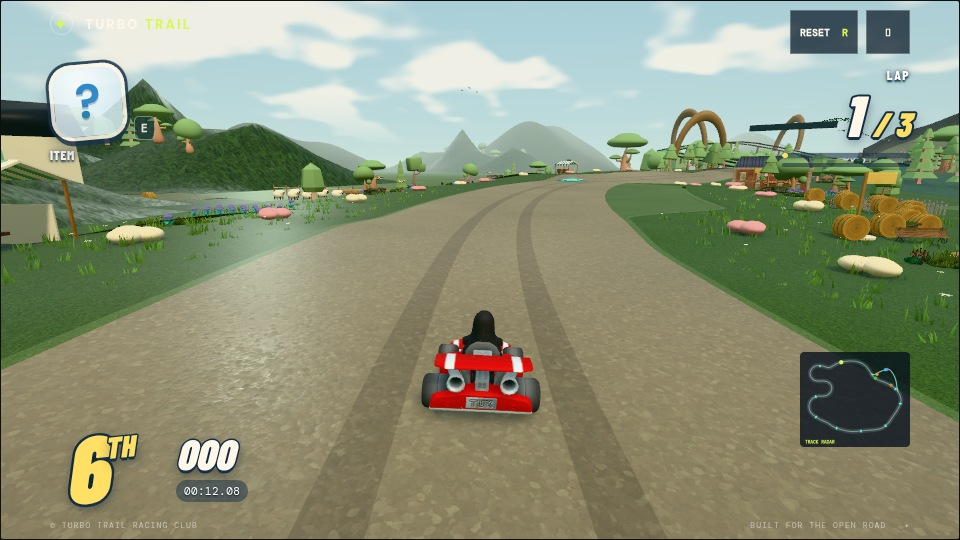
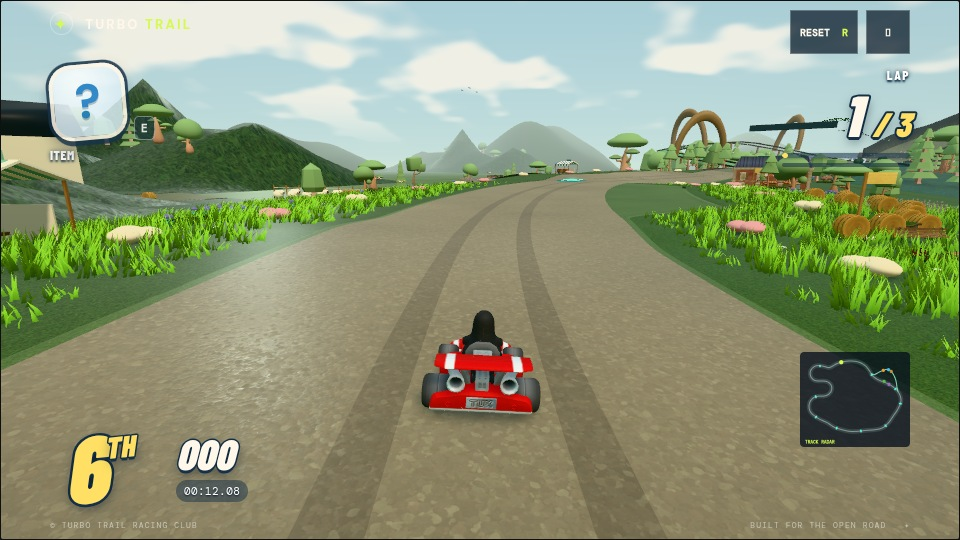
Fill Windmill Wilds with lush wind-swept meadow grass

diff --git a/src/courses/windmill-wilds/meadow-grass.js b/src/courses/windmill-wilds/meadow-grass.js
@@ -13,16 +13,16 @@ export function buildMeadowGrass({ scene, scenery, track }) {
   const positions = [],
     colors = [],
     indices = [];
-  for (let blade = 0; blade < 12; blade++) {
+  for (let blade = 0; blade < 24; blade++) {
     const angle = random() * Math.PI * 2;
-    const height = 0.25 + random() * 0.45;
-    const width = 0.028 + random() * 0.032;
-    const x = Math.cos(angle) * random() * 0.55;
-    const z = Math.sin(angle) * random() * 0.55;
+    const height = 0.55 + random() * 0.65;
+    const width = 0.045 + random() * 0.055;
+    const x = Math.cos(angle) * random() * 0.8;
+    const z = Math.sin(angle) * random() * 0.8;
     const dx = Math.cos(angle) * width;
     const dz = Math.sin(angle) * width;
-    const leanX = Math.sin(angle) * 0.16;
-    const leanZ = Math.cos(angle) * 0.16;
+    const leanX = Math.sin(angle) * 0.32;
+    const leanZ = Math.cos(angle) * 0.32;
     const offset = positions.length / 3;
     positions.push(
       x - dx,
@@ -41,7 +41,7 @@ export function buildMeadowGrass({ scene, scenery, track }) {
       height,
       z + leanZ,
     );
-    colors.push(0.48, 0.58, 0.35, 0.48, 0.58, 0.35, 0.82, 0.9, 0.7, 0.82, 0.9, 0.7, 1, 1, 0.9);
+    colors.push(0.28, 0.43, 0.17, 0.28, 0.43, 0.17, 0.7, 0.88, 0.42, 0.7, 0.88, 0.42, 1, 1, 0.67);
     indices.push(
       offset,
       offset + 1,
@@ -59,23 +59,32 @@ export function buildMeadowGrass({ scene, scenery, track }) {
   geometry.setAttribute("color", new THREE.Float32BufferAttribute(colors, 3));
   geometry.setIndex(indices);
   geometry.computeVertexNormals();
+  // Upward-biased normals give broad, soft lighting instead of glittering slivers.
+  const normals = geometry.getAttribute("normal");
+  const normal = new THREE.Vector3();
+  for (let i = 0; i < normals.count; i++) {
+    normal.fromBufferAttribute(normals, i);
+    normal.y = Math.abs(normal.y) + 1.6;
+    normal.normalize();
+    normals.setXYZ(i, normal.x, normal.y, normal.z);
+  }
   const material = new THREE.MeshStandardMaterial({
-    color: "#70994f",
+    color: "#88ba48",
     roughness: 1,
     vertexColors: true,
     side: THREE.DoubleSide,
   });
-  material.name = "Meadow grass: shaded roots and sunlit tips";
+  material.name = "Wind-swept meadow: emerald roots and golden-green tips";
   material.userData.skipSurfaceDetail = true;
   const uniforms = {
     meadowTime: { value: 0 },
     meadowWind: { value: new THREE.Vector3(...courseWind(track.course.theme)) },
-    meadowRange: { value: new THREE.Vector2(55, 85) },
+    meadowRange: { value: new THREE.Vector2(70, 110) },
     meadowBakeMap: { value: null },
     meadowBakeBounds: { value: new THREE.Vector4() },
     meadowBakeEnabled: { value: 0 },
   };
-  patchMaterial(material, "meadow-blade-wind-and-baked-light-v1", (shader) => {
+  patchMaterial(material, "meadow-blade-wind-and-baked-light-v2", (shader) => {
     Object.assign(shader.uniforms, uniforms);
     shader.vertexShader = `uniform float meadowTime;uniform vec3 meadowWind;
       uniform vec2 meadowRange;varying vec3 vMeadowWorld;varying float vMeadowTip;\n${shader.vertexShader}`;
@@ -90,10 +99,18 @@ export function buildMeadowGrass({ scene, scenery, track }) {
       meadowRoot=modelMatrix*meadowRoot;
       float meadowDistance=length(cameraPosition-meadowRoot.xyz);
       float meadowFade=1.-smoothstep(meadowRange.x,meadowRange.y,meadowDistance);
-      float meadowPhase=dot(meadowRoot.xz,vec2(.21,.17));
-      float meadowSway=sin(meadowTime*1.8+meadowPhase)*.07+sin(meadowTime*.63+meadowPhase*.7)*.045;
-      transformed.xz+=meadowWind.xz*meadowSway*position.y*position.y;
-      transformed.y*=meadowFade;
+      float meadowPhase=dot(meadowRoot.xz,meadowWind.xz)*.12;
+      float meadowWave=sin(meadowPhase-meadowTime*1.65);
+      float meadowGust=smoothstep(-.35,.95,meadowWave);
+      float meadowSway=.12+meadowGust*.32+sin(meadowTime*3.1+meadowRoot.x*.7+position.x*2.)*.055;
+      // Convert the shared world wind into each randomly rotated tuft's space.
+      vec2 meadowLocalWind=meadowWind.xz;
+      #ifdef USE_INSTANCING
+        meadowLocalWind=vec2(dot(normalize(instanceMatrix[0].xz),meadowWind.xz),
+          dot(normalize(instanceMatrix[2].xz),meadowWind.xz));
+      #endif
+      transformed.xz+=meadowLocalWind*meadowSway*position.y*position.y;
+      transformed*=meadowFade;
       vMeadowTip=clamp(position.y,0.,1.);`,
     );
     shader.vertexShader = shader.vertexShader.replace(
@@ -108,7 +125,7 @@ export function buildMeadowGrass({ scene, scenery, track }) {
     );
     shader.fragmentShader = `varying vec3 vMeadowWorld;varying float vMeadowTip;
       uniform sampler2D meadowBakeMap;uniform vec4 meadowBakeBounds;
-      uniform float meadowBakeEnabled;\n${shader.fragmentShader}`;
+      uniform float meadowBakeEnabled;uniform float meadowTime;uniform vec3 meadowWind;\n${shader.fragmentShader}`;
     shader.fragmentShader = shader.fragmentShader.replace(
       "#include <lights_fragment_end>",
       `
@@ -119,8 +136,9 @@ export function buildMeadowGrass({ scene, scenery, track }) {
         reflectedLight.indirectDiffuse*=meadowLight.a;
         reflectedLight.indirectDiffuse+=diffuseColor.rgb*meadowLight.rgb*.65;
       }
-      // Thin blades transmit a little sky light; the vertex gradient keeps roots dark.
-      reflectedLight.indirectDiffuse+=diffuseColor.rgb*vMeadowTip*.12;`,
+      // Soft leaf transmission keeps the sunlit tips luminous on both sides.
+      float meadowLightWave=sin(dot(vMeadowWorld.xz,meadowWind.xz)*.12-meadowTime*1.65);
+      reflectedLight.indirectDiffuse+=diffuseColor.rgb*vMeadowTip*(.22+meadowLightWave*.045);`,
     );
   });
   const cells = new Map();
@@ -129,20 +147,24 @@ export function buildMeadowGrass({ scene, scenery, track }) {
   const up = new THREE.Vector3(0, 1, 0);
   const scale = new THREE.Vector3();
   const locations = [];
-  // Dense foreground in Blossom Common, with matching meadow at the finish.
-  for (const sectionIndex of [0, 5, 7]) {
+  const lake = track.poseAt(track.sectorT(3, 0.38) * track.TRACK, 39, 0).p;
+  // A continuous meadow around the valley, with shorter undergrowth in the woods.
+  // Keep the timber crossing and its open water free of terrestrial plants.
+  for (const sectionIndex of [0, 1, 2, 4, 5, 6, 7]) {
     const section = track.SECTIONS[sectionIndex];
     const length = (section.end - section.start) * track.COURSE_LENGTH;
-    const stations = Math.ceil(length / (sectionIndex === 0 ? 1.7 : 2.7));
+    const stations = Math.ceil(length / 1.9);
+    const rows = sectionIndex === 1 ? 12 : sectionIndex === 4 ? 14 : 22;
     for (let station = 0; station < stations; station++)
       for (const side of [-1, 1])
-        for (let row = 0; row < 11; row++) {
+        for (let row = 0; row < rows; row++) {
           const t = track.sectorT(sectionIndex, (station + random()) / stations);
           const surface = track.surfaceAt(t);
           const edge = side > 0 ? surface.rightEdge : -surface.leftEdge;
-          const offset = side * (edge + 1.85 + row * 2.25 + random() * 1.7);
+          const offset = side * (edge + 1.85 + row * 1.35 + random() * 1.1);
           const pose = track.poseAt(t * track.TRACK, offset, 0);
-          let near = track.projectTrack(pose.p, t * track.TRACK, true);
+          if (((pose.p.x - lake.x) / 66) ** 2 + ((pose.p.z - lake.z) / 54) ** 2 < 1) continue;
+          let near = track.projectTrack(pose.p, t * track.TRACK);
           const physical = near.offset > 0 ? near.rightEdge : -near.leftEdge;
           if (near.distance < physical + 0.7) continue;
           if (
@@ -155,20 +177,33 @@ export function buildMeadowGrass({ scene, scenery, track }) {
           // Lowering a plant from road height can select a different nearby
           // embankment. Resolve the planted position, not just the road pose.
           for (let step = 0; step < 4; step++) {
-            near = track.projectTrack(pose.p, t * track.TRACK, true);
+            near = track.projectTrack(pose.p, near.t * track.TRACK);
             const height = sceneryGroundHeight(near) - 0.025;
             if (Math.abs(height - pose.p.y) < 0.000001) break;
             pose.p.y = height;
           }
+          near = track.projectTrack(pose.p, t * track.TRACK, true);
+          // Tight folds can alternate between two banks; omit unstable roots.
+          if (Math.abs(pose.p.y - sceneryGroundHeight(near) + 0.025) > 0.000001) continue;
           const finalEdge = near.offset > 0 ? near.rightEdge : -near.leftEdge;
-          if (near.distance < finalEdge + 1.1) continue;
-          const key = `${Math.floor(pose.p.x / 32)},${Math.floor(pose.p.z / 32)}`;
+          if (near.distance < finalEdge + 1.1 || Math.abs(near.offset) < finalEdge + 1.1) continue;
+          if (
+            (track.branches || []).some(
+              (branch) => branch.project(pose.p, near.t, true).distance < branch.halfWidth + 1.5,
+            )
+          )
+            continue;
+          const key = `${Math.floor(pose.p.x / 48)},${Math.floor(pose.p.z / 48)}`;
           if (!cells.has(key)) cells.set(key, []);
           rotation.setFromAxisAngle(up, random() * Math.PI * 2);
-          const size = 0.65 + random() * 0.75;
-          scale.set(size, size * (row === 0 ? 0.55 : 1), size);
+          const size = 0.85 + random() * 0.45;
+          const height = row === 0 ? 0.55 : sectionIndex === 1 ? 0.7 : 1;
+          scale.set(size, size * height, size);
           matrix.compose(pose.p, rotation, scale);
-          cells.get(key).push({ matrix: matrix.clone(), tint: 0.82 + random() * 0.3 });
+          const patch = Math.sin(pose.p.x * 0.035 + Math.sin(pose.p.z * 0.04) * 1.8);
+          cells
+            .get(key)
+            .push({ matrix: matrix.clone(), tint: 0.94 + patch * 0.1 + random() * 0.08 });
           locations.push(pose.p.clone());
         }
   }
@@ -194,8 +229,8 @@ export function buildMeadowGrass({ scene, scenery, track }) {
     mesh.computeBoundingBox();
     mesh.computeBoundingSphere();
     // Account for wind displacement in the frustum bounds.
-    mesh.boundingBox.expandByScalar(0.25);
-    mesh.boundingSphere.radius += 0.25;
+    mesh.boundingBox.expandByScalar(1.1);
+    mesh.boundingSphere.radius += 1.1;
     scenery.add(mesh);
     meshes.push(mesh);
   }
@@ -239,7 +274,7 @@ export function buildMeadowGrass({ scene, scenery, track }) {
   flowerMaterial.color.set("#ffffff");
   flowerMaterial.onBeforeCompile = material.onBeforeCompile;
   flowerMaterial.customProgramCacheKey = material.customProgramCacheKey;
-  const flowerLocations = locations.filter((_p, i) => i % 17 === 0);
+  const flowerLocations = locations.filter((_p, i) => i % 61 === 0);
   const flowers = new THREE.InstancedMesh(flowerGeometry, flowerMaterial, flowerLocations.length);
   flowers.name = "Meadow daisies with stems, petals and pollen centers";
   flowers.userData.skipBake = true;
@@ -271,9 +306,9 @@ export function buildMeadowGrass({ scene, scenery, track }) {
       }
     },
     setQuality(tier) {
-      const density = [0.35, 0.55, 0.8, 1][tier];
+      const density = [0.3, 0.5, 0.75, 1][tier];
       for (const mesh of meshes) mesh.count = Math.ceil(mesh.userData.fullCount * density);
-      uniforms.meadowRange.value.set(tier < 2 ? 35 : 55, tier < 2 ? 60 : 85);
+      uniforms.meadowRange.value.set(tier < 2 ? 40 : 70, tier < 2 ? 65 : 110);
     },
   };
 }

diff --git a/tests/meadow-graphics.test.js b/tests/meadow-graphics.test.js
@@ -13,10 +13,20 @@ test("living meadow grass stays off driving surfaces, follows terrain and has a 
   scene.add(scenery);
   const track = selectCourse(course);
   const meadow = buildMeadowGrass({ scene, scenery, track });
-  assert.ok(meadow.locations.length > 1000 && meadow.locations.length < 8000);
-  assert.ok(meadow.meshes.length < 100, "regional instances keep grass draw objects bounded");
+  assert.ok(
+    meadow.locations.length > 12000 && meadow.locations.length < 35000,
+    `dense valley coverage stays within its instance budget (${meadow.locations.length})`,
+  );
+  assert.ok(meadow.meshes.length < 160, "regional instances keep grass draw objects bounded");
+  const sections = new Set();
+  const lake = track.poseAt(track.sectorT(3, 0.38) * track.TRACK, 39, 0).p;
   for (const p of meadow.locations) {
     const surface = track.projectTrack(p, 0, true);
+    sections.add(track.SECTIONS.findIndex((s) => surface.t >= s.start && surface.t < s.end));
+    assert.ok(
+      ((p.x - lake.x) / 66) ** 2 + ((p.z - lake.z) / 54) ** 2 >= 1,
+      "open water stays clear",
+    );
     const edge = surface.offset > 0 ? surface.rightEdge : -surface.leftEdge;
     assert.ok(
       surface.distance >= edge + 0.7 - 1e-5,
@@ -26,6 +36,8 @@ test("living meadow grass stays off driving surfaces, follows terrain and has a 
     for (const branch of track.branches)
       assert.ok(branch.project(p, 0, true).distance >= branch.halfWidth + 1);
   }
+  for (const section of [0, 1, 2, 4, 5, 6, 7])
+    assert.ok(sections.has(section), `living grass reaches section ${section}`);
   for (const mesh of meadow.meshes) {
     assert.equal(mesh.castShadow, false);
     assert.equal(mesh.userData.skipBake, true);
